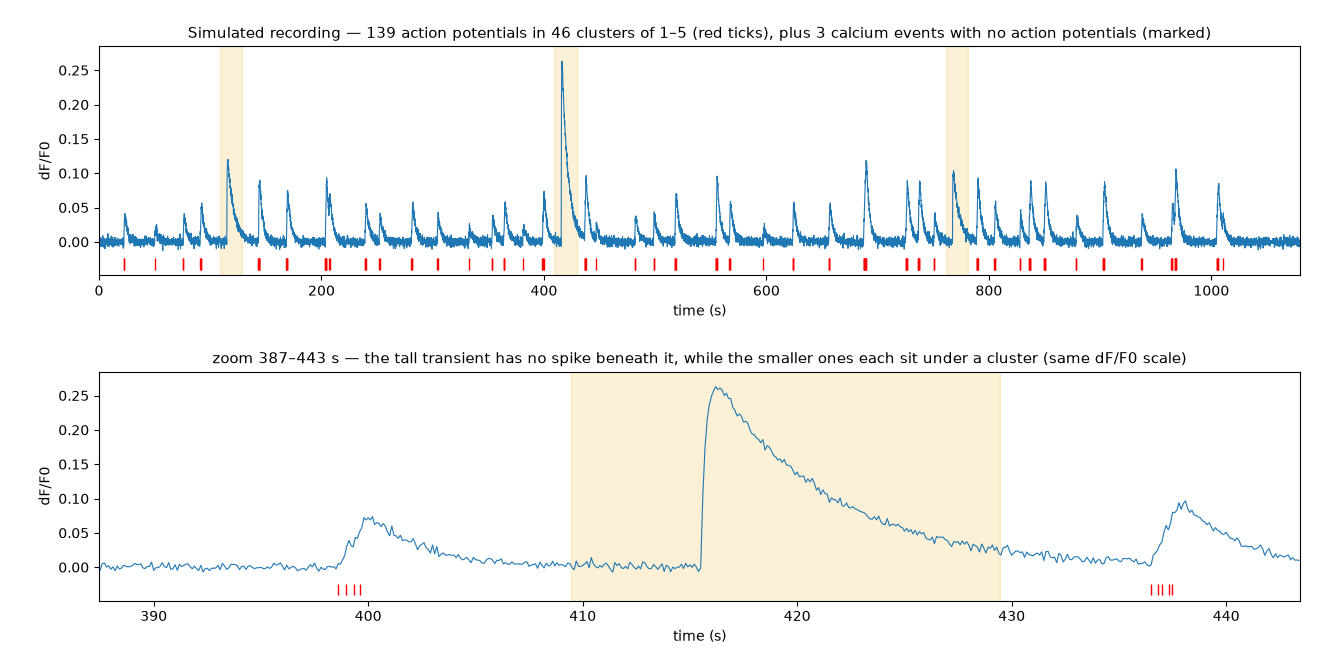
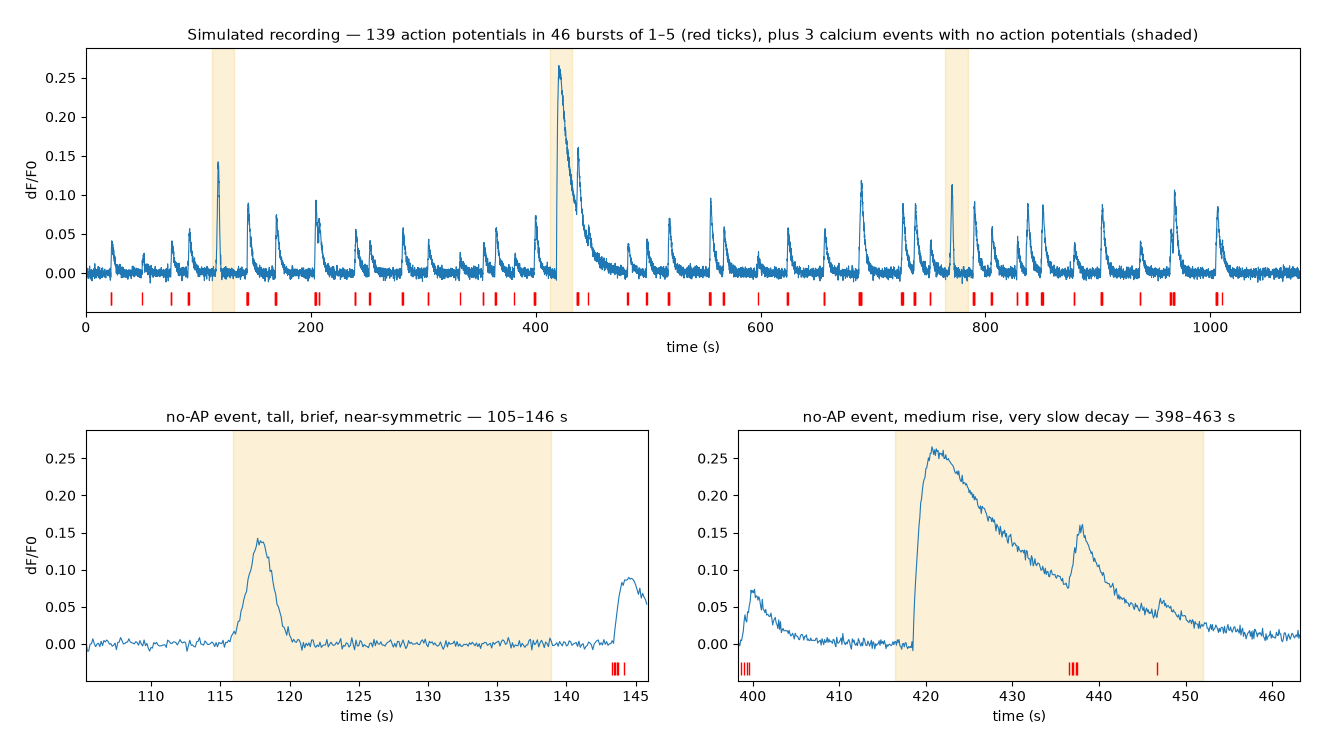
Give the AP-independent events two distinct morphologies
All three previously shared one shape, which made them read as a single artifact
stamped three times rather than as evidence that something other than spiking is
happening. Both shapes below were evident in the real recording.

  narrow — tall, brief, near-symmetric. Measured: 1.10 s up, 1.10 s down at half
           height, so a symmetry ratio of exactly 1.00, and over in ~3 s.
  slow   — medium rise, very long tail. 2.20 s up against 9.40 s down, ratio 4.27,
           still visibly elevated most of a minute later.

For comparison the AP-linked transient peaks at 0.60 s with a 2.7 s decay. Neither
AP-independent shape matches it, and that mismatch is not decoration: an event that
does not fit the AP kernel is one a kernel fit cannot explain, which is what the
tool's diagnostics exist to surface.

The narrow morphology uses the GAUSSIAN builder, not the calcium one. A difference
of exponentials always leaves a tail longer than its rise, so it cannot be made
symmetric at any tau — the first attempt got a 3:1 ratio and still looked like a
small spike-driven event. Switching families is what made "near-symmetric" true
rather than approximate.

Events therefore carry their own kernel now, so they are stamped individually
instead of convolved as one impulse train; the stamp reads each kernel's zeroIndex
rather than assuming, since the gaussian is centred and the calcium kernel causal.

Placement was relaxed to match: clearance is now required either side of the ONSET
[…]

diff --git a/src/lib/core/premise-sim.js b/src/lib/core/premise-sim.js
@@ -36,6 +36,29 @@ import { buildKernel } from './kernels.js';
 import { convolveOnGrid } from './convolve.js';
 import { addAWGN, mulberry32 } from './noise.js';
 
+/**
+ * Morphologies for AP-independent calcium events. Both were visible in the real ROI-1
+ * recording, and neither looks like the AP-linked transient (peak at 0.60 s, τ 2.7 s):
+ *
+ *   narrow — tall but brief and near-symmetric. Rise-to-peak 0.73 s against a 0.9 s decay,
+ *            so it goes up and comes back down at nearly the same rate and is over in ~5 s.
+ *   slow   — medium rise, very long tail. 2.7 s to peak, then a 12 s decay constant, so it
+ *            is still visibly elevated most of a minute later.
+ *
+ * The shape mismatch is not decoration: an event that does not fit the AP kernel is one a
+ * kernel fit cannot explain, which is what the tool's diagnostics are for.
+ */
+export const EVENT_SHAPES = {
+  // Gaussian, not a difference of exponentials: a double-exponential always leaves a tail
+  // longer than its rise, so it cannot be made symmetric no matter how the τ values are
+  // set. σ 0.9 s gives a ~2.1 s width at half height — tall, brief, and up and down at the
+  // same rate, which is what the real recording showed.
+  narrow: { kernel: 'gaussian', params: { sigma: 0.9 } },
+  // Same family as the AP kernel, pushed far from its parameters: 2.7 s to peak against a
+  // 12 s decay constant, so it is still elevated most of a minute later.
+  slow: { kernel: 'calcium', params: { tauRise: 1.0, tauDecay: 12 } },
+};
+
 /** Recording shape — matched to the real ROI-1 recording's length and frame rate. */
 export const SIM = {
   rateHz: 10,
@@ -55,18 +78,30 @@ export const SIM = {
   /** Cluster-onset jitter, in slot widths. >1 lets neighbours cross, so the train clumps. */
   jitterSlots: 1.7,
 
-  // The violation: kernel-shaped calcium with no spikes under it. Slower decay than the
-  // AP-linked events, as in the real recording.
+  // The violation: calcium with no spikes under it.
   //
-  // Amplitudes only — the TIMES are derived, not authored. An AP-independent event that
+  // These do NOT all share one shape, and that is the point. The real recording showed at
+  // least two morphologies, neither of which matches the AP-linked transient — see
+  // EVENT_SHAPES. A single shared shape made the figure read as one artifact stamped three
+  // times; carrying the real variety is what makes "this is not the same process" legible
+  // from the trace rather than only from the tick row.
+  //
+  // Amplitude and shape are authored; the TIMES are derived. An AP-independent event that
   // happens to land on a cluster reads as a coupled event with an implausible amplitude,
-  // which defeats the whole demonstration; hand-picked times get that wrong again the
-  // moment the seed changes. So each event is placed in one of the widest spike-free gaps
-  // (see placeInQuietGaps). Listed in chronological order.
-  independentTauDecay: 5.5,
-  independentAmps: [0.12, 0.26, 0.10],
-  /** Clear seconds required after an event before the next AP, so its decay is legible. */
-  independentClearS: 16,
+  // which defeats the whole demonstration, and hand-picked times get that wrong again the
+  // moment the seed changes. So each is placed in one of the widest spike-free gaps (see
+  // placeInQuietGaps). Listed in chronological order.
+  independentEvents: [
+    { amp: 0.14, shape: 'narrow' },
+    { amp: 0.26, shape: 'slow' },
+    { amp: 0.11, shape: 'narrow' },
+  ],
+  /**
+   * Seconds of spike-free space required either side of an event's ONSET, so its rise is
+   * unambiguously not spike-driven. The DECAY may overlap later spiking — the slow
+   * morphology trails for a minute and did exactly that in the real recording.
+   */
+  independentClearS: 10,
 
   /** Measurement-noise floor from the ROI-1 reconnaissance (AWGN, σ in dF/F₀). */
   sigma: 0.0035,
@@ -122,32 +157,24 @@ export function simulatePremise(overrides = {}) {
   const apKernel = buildKernel('calcium', { tauRise: p.tauRise, tauDecay: p.tauDecay }, grid.dt, p.apAmp);
   const apLinked = convolveOnGrid(raster.samples, grid, apKernel).samples.slice(0, grid.n);
 
-  // --- AP-independent calcium: same shape, slower decay, no spikes ---------
+  // --- AP-independent calcium: per-event shape, no spikes ------------------
+  // Each event carries its own kernel now, so these are stamped individually rather than
+  // convolved as one impulse train. Stamping a causal kernel at an impulse IS that
+  // convolution, without building a length-n input per event.
   const independentEvents = placeInQuietGaps(spikes, p);
-  const indepRaster = rasterize(
-    independentEvents.map((e) => e.atS),
-    grid,
-    { amplitudeMode: 'unit' },
-  );
-  // Weight each impulse by its own amplitude before convolving, so one pass covers all three.
-  const weighted = new Float64Array(grid.n);
-  {
-    const src = indepRaster.samples;
-    let seen = 0;
-    for (let i = 0; i < grid.n; i++) {
-      if (src[i] > 0) {
-        weighted[i] = independentEvents[Math.min(seen, independentEvents.length - 1)].amp;
-        seen++;
-      }
+  const apIndependent = new Float64Array(grid.n);
+  for (const e of independentEvents) {
+    const shape = EVENT_SHAPES[e.shape];
+    if (!shape) throw new Error(`premise-sim: unknown event shape '${e.shape}'`);
+    // zeroIndex differs by family — 0 for the causal calcium kernel, centred for the
+    // gaussian — so the stamp offset below reads it rather than assuming.
+    const k = buildKernel(shape.kernel, shape.params, grid.dt, e.amp);
+    const i0 = Math.round((e.atS - grid.t0) / grid.dt);
+    for (let j = 0; j < k.samples.length; j++) {
+      const i = i0 + j - k.zeroIndex;
+      if (i >= 0 && i < grid.n) apIndependent[i] += k.samples[j];
     }
   }
-  const indepKernel = buildKernel(
-    'calcium',
-    { tauRise: p.tauRise, tauDecay: p.independentTauDecay },
-    grid.dt,
-    1, // amplitude carried per-impulse above
-  );
-  const apIndependent = convolveOnGrid(weighted, grid, indepKernel).samples.slice(0, grid.n);
 
   // --- sum + measurement noise ---------------------------------------------
   const clean = new Float64Array(grid.n);
@@ -181,7 +208,7 @@ export function simulatePremise(overrides = {}) {
  * @returns {{atS:number, amp:number}[]} chronological, amplitudes in the listed order
  */
 export function placeInQuietGaps(spikes, p) {
-  const n = p.independentAmps.length;
+  const n = p.independentEvents.length;
   const gaps = [];
   for (let i = 1; i < spikes.length; i++) {
     gaps.push({ from: spikes[i - 1], to: spikes[i], len: spikes[i] - spikes[i - 1] });
@@ -198,12 +225,14 @@ export function placeInQuietGaps(spikes, p) {
   }
 
   return chosen.map((g, i) => {
-    // Sit far enough past the preceding AP that its transient has decayed, and leave the
-    // required clear run before the next one so the slow decay is visible uninterrupted.
+    // Sit far enough past the preceding AP that its transient has decayed, and leave a
+    // clear run before the next one so the RISE is unambiguous. The tail is allowed to
+    // run into later spiking — the slow morphology trails for most of a minute, and did
+    // exactly that in the real recording.
     const earliest = g.from + 4 * p.tauDecay;
     const latest = g.to - p.independentClearS;
     const atS = latest > earliest ? (earliest + latest) / 2 : (g.from + g.to) / 2;
-    return { atS: round(atS, 2), amp: p.independentAmps[i] };
+    return { atS: round(atS, 2), ...p.independentEvents[i] };
   });
 }
 

diff --git a/src/lib/Help.svelte b/src/lib/Help.svelte
@@ -86,11 +86,11 @@
     </p>
     <figure class="fig">
       <a href={premiseFig} target="_blank" rel="noopener" title="Open full size in a new tab">
-        <img src={premiseFig} alt="Two panels of a simulated recording. Top: 139 action potentials in 46 bursts of one to five, shown as red ticks beneath a blue calcium trace, with three calcium events highlighted. Bottom: one of those events enlarged on the same scale — a tall transient with no action potentials beneath it, between two smaller transients that each sit under a burst." />
+        <img src={premiseFig} alt="Three panels of a simulated recording. Top: 139 action potentials in 46 bursts of one to five, shown as red ticks beneath a blue calcium trace, with three calcium events shaded. Bottom left: one shaded event enlarged, a tall brief symmetric transient with no action potentials beneath it, next to an ordinary burst. Bottom right: another, rising more slowly and decaying for most of a minute, with a later burst riding on its tail." />
       </a>
       <figcaption>
         <strong>Simulated</strong>, not a recording &mdash; the same model the tool assumes,
-        plus three violations of it. Lower panel on the <em>same</em> dF/F₀ scale.
+        plus three violations of it. All panels share one dF/F₀ scale.
         <a href={premiseFig} target="_blank" rel="noopener">Open full size ↗</a>
       </figcaption>
     </figure>
@@ -99,8 +99,14 @@
       transient about five times a single spike's. That is the whole assumption this tool
       exists to test &mdash; and mostly it holds. But <strong>three</strong> of the calcium
       events here have <em>no action potentials underneath them at all</em>, and the tallest
-      is bigger than anything the spikes produced. The lower panel is one of them, between
-      two ordinary bursts for comparison.
+      is bigger than anything the spikes produced.
+    </p>
+    <p class="plain">
+      Look at the shapes of those three, in the lower panels. One is tall, brief and
+      symmetric &mdash; up and down at the same rate. Another rises more slowly and then
+      takes most of a minute to fall, with a later burst riding on its decaying tail.
+      Neither looks like the spike-driven transients around them, and that is the tell:
+      whatever produced them, it was not an action potential.
     </p>
     <p class="plain">
       Real recordings do this. Hand that trace to a tool that assumes every calcium event

diff --git a/scripts/dataset-summary/premise_figure.py b/scripts/dataset-summary/premise_figure.py
@@ -11,10 +11,16 @@ about the science.
 Because the input is synthetic, this figure carries no disclosure cost — which is the
 entire reason it exists. See docs/img/README.txt.
 
-Two panels, one shared dF/F0 scale:
-  top    — the whole simulated recording, AP-independent events marked
-  bottom — a window holding BOTH a spike-driven event and an AP-independent one, so the
-           contrast is visible side by side rather than asserted in a caption
+Three panels, one shared dF/F0 scale throughout:
+  top          — the whole simulated recording, AP-independent events marked
+  bottom left  — a NARROW AP-independent event in context
+  bottom right — a SLOW one
+
+The bottom row exists because the two AP-independent morphologies look nothing like each
+other, and neither looks like the AP-linked transient. One panel could only ever show one
+of them, which would read as a single artifact rather than as "these are not the same
+process." Each zoom keeps a spike-driven event in frame, so the comparison is on-figure
+rather than asserted in the caption.
 """
 
 import argparse
@@ -82,19 +88,20 @@ def main():
     base = lo - gap - band_h
     ylim = (base - span * 0.03, hi + span * 0.08)
 
-    # Zoom on the LARGEST AP-independent event — the one whose absence of spikes is most
-    # striking — with enough context either side to catch a real spike-driven event too.
-    big = max(events, key=lambda e: e["amp"])
-    z0, z1 = big["atS"] - args.zoom_pad, big["atS"] + args.zoom_pad
-    zi = [i for i, tt in enumerate(t) if z0 <= tt <= z1]
-    zt = [t[i] for i in zi]
-    zy = [y[i] for i in zi]
-    zs = [s for s in spikes if z0 <= s <= z1]
+    # One zoom per morphology — the biggest example of each, so the pair shows how
+    # different they are rather than repeating one shape twice.
+    def biggest(shape):
+        of_shape = [e for e in events if e.get("shape") == shape]
+        return max(of_shape, key=lambda e: e["amp"]) if of_shape else None
 
-    fig, axes = plt.subplots(2, 1, figsize=(13.2, 6.6), dpi=100)
+    picks = [e for e in (biggest("narrow"), biggest("slow")) if e is not None]
 
+    fig = plt.figure(figsize=(13.2, 7.4), dpi=100)
+    gs = fig.add_gridspec(2, len(picks) or 1, height_ratios=[1.0, 0.95], hspace=0.46, wspace=0.16)
+
+    ax_top = fig.add_subplot(gs[0, :])
     draw(
-        axes[0],
+        ax_top,
         t,
         y,
         spikes,
@@ -103,33 +110,45 @@ def main():
         (t[0], t[-1]),
         ylim,
         f"Simulated recording — {len(spikes)} action potentials in "
-        f"{len(d['clusters'])} clusters of 1–5 (red ticks), plus "
-        f"{len(events)} calcium events with no action potentials (marked)",
+        f"{len(d['clusters'])} bursts of 1–5 (red ticks), plus "
+        f"{len(events)} calcium events with no action potentials (shaded)",
     )
     for e in events:
-        axes[0].axvspan(e["atS"] - 6, e["atS"] + 14, color=MARK_COLOR, alpha=0.16, zorder=0)
+        ax_top.axvspan(e["atS"] - 6, e["atS"] + 14, color=MARK_COLOR, alpha=0.16, zorder=0)
 
-    draw(
-        axes[1],
-        zt,
-        zy,
-        zs,
-        base,
-        band_h,
-        (z0, z1),
-        ylim,
-        f"zoom {z0:.0f}–{z1:.0f} s — the tall transient has no spike beneath it, "
-        "while the smaller ones each sit under a cluster (same dF/F0 scale)",
-    )
-    axes[1].axvspan(big["atS"] - 6, big["atS"] + 14, color=MARK_COLOR, alpha=0.16, zorder=0)
+    label = {
+        "narrow": "tall, brief, near-symmetric",
+        "slow": "medium rise, very slow decay",
+    }
+    for col, e in enumerate(picks):
+        pad = args.zoom_pad if e.get("shape") == "narrow" else args.zoom_pad * 1.6
+        z0, z1 = e["atS"] - pad * 0.45, e["atS"] + pad
+        zi = [i for i, tt in enumerate(t) if z0 <= tt <= z1]
+        ax = fig.add_subplot(gs[1, col])
+        draw(
+            ax,
+            [t[i] for i in zi],
+            [y[i] for i in zi],
+            [s for s in spikes if z0 <= s <= z1],
+            base,
+            band_h,
+            (z0, z1),
+            ylim,
+            f"no-AP event, {label.get(e.get('shape'), e.get('shape'))} "
+            f"— {z0:.0f}–{z1:.0f} s",
+        )
+        ax.axvspan(e["atS"] - 2, e["atS"] + pad * 0.75, color=MARK_COLOR, alpha=0.16, zorder=0)
+        if col > 0:
+            ax.set_ylabel("")
 
-    fig.subplots_adjust(left=0.075, right=0.985, top=0.93, bottom=0.09, hspace=0.42)
+    fig.subplots_adjust(left=0.065, right=0.985, top=0.935, bottom=0.08)
     fig.savefig(args.out)
     plt.close(fig)
 
     print(
         f"{args.out}  ({d['n']} samples, {len(spikes)} APs, "
-        f"{len(events)} AP-independent events, zoom {z0:.0f}-{z1:.0f} s)"
+        f"{len(events)} AP-independent events, "
+        f"zooms: {', '.join(e.get('shape', '?') for e in picks)})"
     )
 
 

diff --git a/README.md b/README.md
@@ -8,7 +8,7 @@ nothing uploaded.
 
 ## Why this tool exists
 
-![Two panels of a simulated recording. Top: 139 action potentials in 46 bursts of one to five, shown as red ticks beneath a blue calcium trace, with three calcium events highlighted. Bottom: one of those events enlarged on the same dF/F0 scale — a tall transient with no action potentials beneath it, between two smaller transients that each sit under a burst.](docs/img/premise_sim.png)
+![Three panels of a simulated recording. Top: 139 action potentials in 46 bursts of one to five, shown as red ticks beneath a blue calcium trace, with three calcium events shaded. Bottom left: one shaded event enlarged, a tall brief symmetric transient with no action potentials beneath it, next to an ordinary burst. Bottom right: another, rising more slowly and decaying for most of a minute, with a later burst riding on its tail.](docs/img/premise_sim.png)
 
 The red ticks are action potentials, arriving in bursts of one to five; the blue trace is
 the calcium signal. Every burst stamps down the same shape once per spike, so a five-spike
@@ -16,8 +16,10 @@ burst produces a transient about five times a single spike's. That is the assump
 tool exists to test, and mostly it holds.
 
 But **three** of the calcium events here have *no action potentials underneath them at
-all*, and the tallest is larger than anything the spikes produced. The lower panel is one
-of them, on the **same dF/F₀ scale**, sitting between two ordinary bursts for comparison.
+all*, and the tallest is larger than anything the spikes produced. The lower panels enlarge
+two of them, on the **same dF/F₀ scale**. One is tall, brief and symmetric; the other rises
+slowly and takes most of a minute to fall, with a later burst riding on its decaying tail.
+Neither looks like the spike-driven transients beside them — which is the tell.
 
 Real recordings do this. Hand that trace to a tool that assumes every calcium event came
 from a spike and it will happily return a kernel — one distorted by events the spikes never
